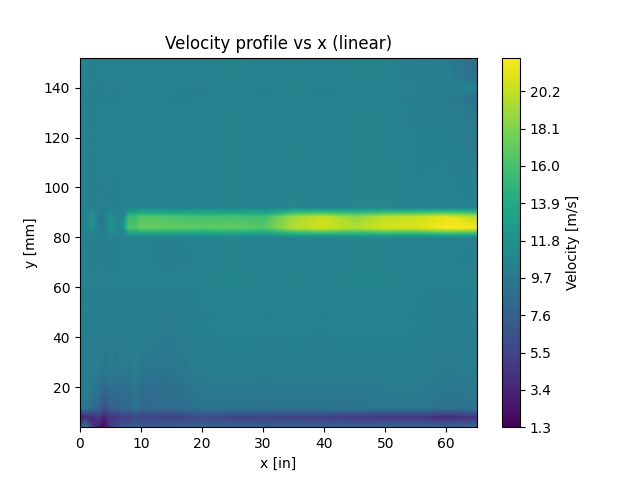
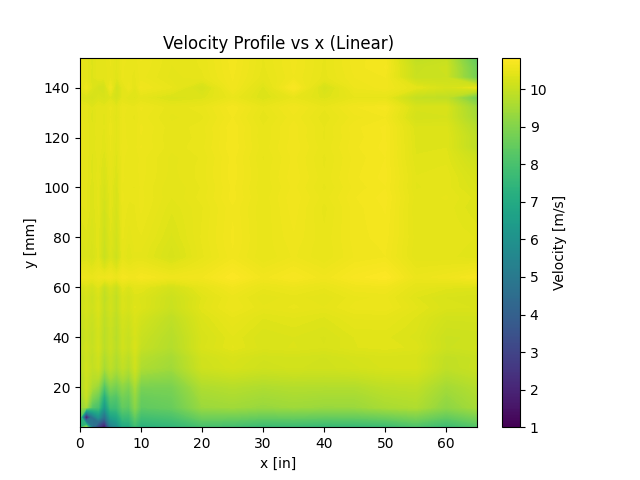
i don't know what to believe anymore

diff --git a/aere-344/labs/8/main.py b/aere-344/labs/8/main.py
@@ -13,7 +13,10 @@ Delta_y = 4 / 1000
 
 is_ = list(range(1, 39))
 
-broken_indices = [56]
+# broken_indices = [1, 7, 10, 16, 17, 21, 22, 33, 35]
+broken_indices = [2, 11, 17, 21, 22]
+broken_indices = np.array(broken_indices)
+broken_indices -= 1
 
 xs_in = list(range(10)) + list(range(10, 65 + 5, 5))
 xs = [x_in * in_to_m for x_in in xs_in]
@@ -26,7 +29,7 @@ profiles = []
 
 for x_in in xs_in:
     path = f"data/{x_in}in.csv"
-    x = x_in * in_to_m
+    sample_range = x_in * in_to_m
 
     with open(path) as file:
         reader = csv.reader(file)
@@ -47,6 +50,13 @@ for x_in in xs_in:
             total_sample = np.array(sample[38])
             static_sample = np.array(sample[39])
 
+            valid = np.ones(len(rake_sample), dtype=bool)
+            valid[broken_indices] = False
+            sample_range = np.arange(len(rake_sample))
+            rake_sample = np.interp(
+                sample_range, sample_range[valid], rake_sample[valid]
+            )
+
             rake_samples.append(rake_sample)
             total_samples.append(total_sample)
             static_samples.append(static_sample)
@@ -58,7 +68,7 @@ for x_in in xs_in:
         u = np.sqrt((2 * np.abs(p0 - p_inf)) / rho)
         u_inf = np.sqrt((2 * (p0_inf - p_inf)) / rho)
 
-        Re_x = u * x / nu
+        Re_x = u * sample_range / nu
 
         profiles.append(u)
 
@@ -67,21 +77,21 @@ for x_in in xs_in:
 
 ys_mm = ys * 1000
 
-x, y = np.meshgrid(xs_in, ys_mm)
+sample_range, y = np.meshgrid(xs_in, ys_mm)
 z = np.array(profiles).T
 
 plt.figure(1)
 
-plt.contourf(x, y, z, levels=2**8)
+plt.contourf(sample_range, y, z, levels=2**8)
 plt.colorbar(label="Velocity [m/s]")
 
 plt.xlabel("x [in]")
 plt.ylabel("y [mm]")
 
-plt.title("Velocity profile vs x (linear)")
+plt.title("Velocity Profile vs x (Linear)")
 plt.savefig("out/velocity_profile_vs_x_linear.png")
 
 plt.yscale("log")
 
-plt.title("Velocity profile vs x (logarithmic)")
+plt.title("Velocity Profile vs x (Logarithmic)")
 plt.savefig("out/velocity_profile_vs_x_logarithmic.png")
